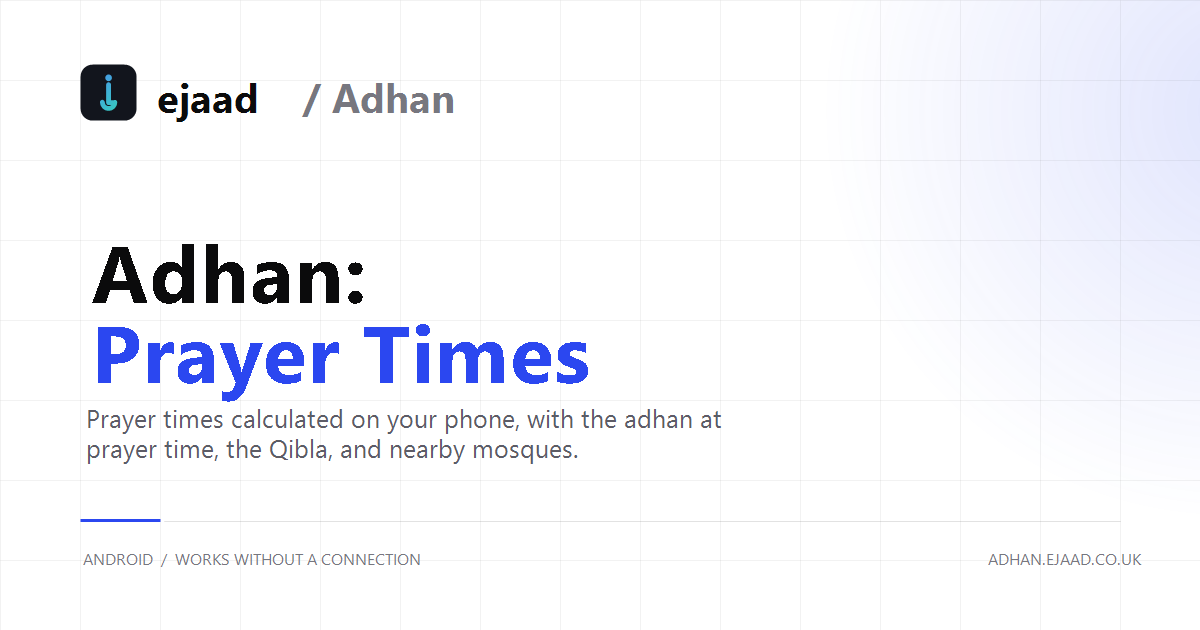
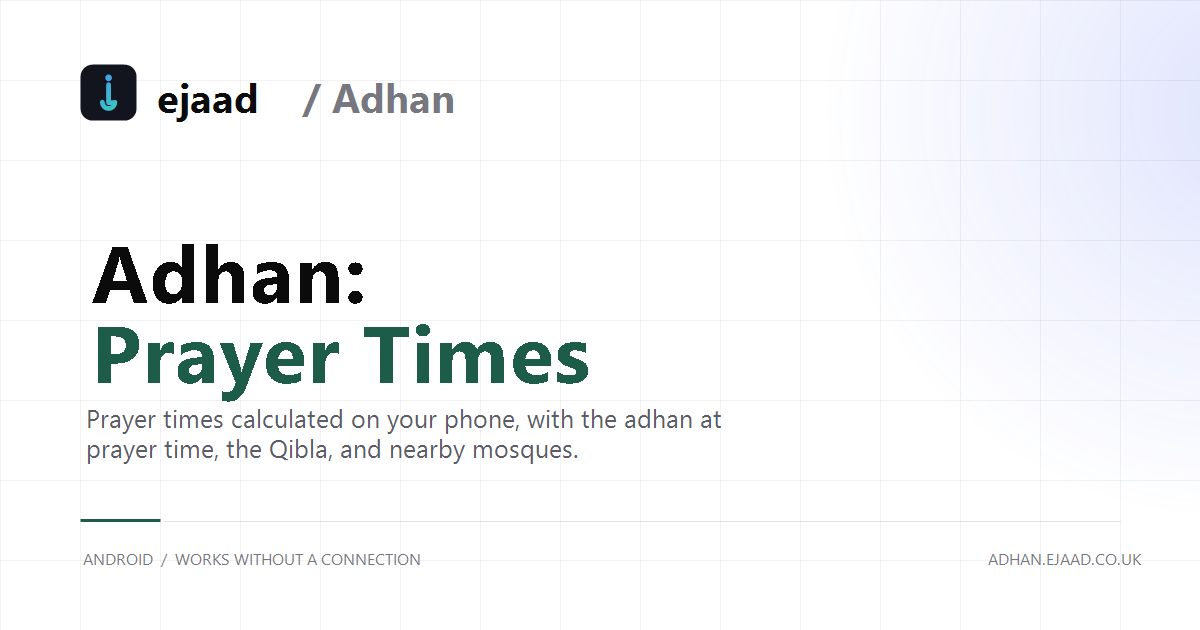
Adhan: green and white theme, pastel tiles, tighter spacing

Changed region(s): [[0.0617, 0.5127, 0.2775, 0.6333], [0.3083, 0.5127, 0.4933, 0.6333], [0.0617, 0.8143, 0.1233, 0.8444]]

diff --git a/adhan/assets/css/styles.css b/adhan/assets/css/styles.css
@@ -4,15 +4,18 @@
 
 :root {
   --bg: #ffffff;
-  --soft: #f4f4f6;
-  --lilac: #f1f5ff;
-  --ink: #0b0b0c;
-  --muted: #5c5c66;
-  --faint: #77777f;
-  --line: #e5e5ea;
-  --line-strong: #d3d3da;
-  --accent: #2b47f0;
-  --accent-soft: #eef2ff;
+  --soft: #f1f8f2;
+  --lilac: #e8f6ef;
+  --ink: #0e1a16;
+  --muted: #4f5f58;
+  --faint: #6f8078;
+  --line: #dfeae4;
+  --line-strong: #c9dbd3;
+  --accent: #1c5c48;
+  --accent-soft: #e8f6ef;
+  --forest: #0b2b23;
+  --emerald: #2f9e77;
+  --sand: #f7f1e4;
   --radius: 8px;
   --max: 1160px;
   --header-h: 72px;
@@ -61,7 +64,7 @@ p:last-child { margin-bottom: 0; }
 a { color: inherit; text-decoration: none; }
 ul { margin: 0; padding: 0; list-style: none; }
 
-::selection { background: rgba(43, 71, 240, 0.18); color: var(--ink); }
+::selection { background: rgba(28, 92, 72, 0.18); color: var(--ink); }
 
 :focus-visible {
   outline: 2px solid var(--accent);
@@ -152,18 +155,18 @@ ul { margin: 0; padding: 0; list-style: none; }
   transition: color 0.16s ease, background 0.16s ease;
 }
 .nav > a:hover { color: var(--ink); background: var(--soft); }
-.nav a.nav-cta { margin-left: 0.5rem; background: var(--ink); color: #fff; }
-.nav a.nav-cta:hover { background: var(--accent); color: #fff; }
+.nav a.nav-cta { margin-left: 0.5rem; background: var(--forest); color: #fff; }
+.nav a.nav-cta:hover { background: var(--emerald); color: #fff; }
 
 /* --------------------------------------------------------------------------
    Hero
    -------------------------------------------------------------------------- */
 
 .hero {
-  padding-block: clamp(2rem, 4vw, 3.5rem) 3rem;
+  padding-block: clamp(2rem, 4vw, 3.5rem) 1.5rem;
   background:
-    radial-gradient(60% 45% at 92% 0%, rgba(43, 71, 240, 0.07), transparent 70%),
-    radial-gradient(45% 45% at 0% 20%, rgba(46, 230, 168, 0.05), transparent 70%);
+    radial-gradient(60% 45% at 92% 0%, rgba(28, 92, 72, 0.08), transparent 70%),
+    radial-gradient(45% 45% at 0% 20%, rgba(47, 158, 119, 0.07), transparent 70%);
 }
 
 .hero-grid {
@@ -219,7 +222,7 @@ ul { margin: 0; padding: 0; list-style: none; }
   width: 86%;
   aspect-ratio: 1;
   border-radius: 50%;
-  background: radial-gradient(circle, rgba(79, 125, 255, 0.2), rgba(46, 230, 168, 0.1) 55%, transparent 72%);
+  background: radial-gradient(circle, rgba(47, 158, 119, 0.2), rgba(28, 92, 72, 0.08) 55%, transparent 72%);
   filter: blur(8px);
 }
 .phone {
@@ -239,7 +242,8 @@ ul { margin: 0; padding: 0; list-style: none; }
    Sections
    -------------------------------------------------------------------------- */
 
-.section { padding-block: clamp(3.8rem, 7vw, 6rem); }
+.section { padding-block: clamp(3rem, 5vw, 4.5rem); }
+#overview { padding-top: 2.5rem; }
 .section-lilac { background: var(--lilac); }
 
 .section-head { max-width: 720px; margin-bottom: clamp(2rem, 4vw, 2.8rem); }
@@ -248,13 +252,13 @@ ul { margin: 0; padding: 0; list-style: none; }
 
 .section-dark {
   background:
-    radial-gradient(70% 60% at 85% 0%, rgba(79, 125, 255, 0.22), transparent 60%),
-    radial-gradient(60% 60% at 5% 100%, rgba(46, 230, 168, 0.12), transparent 60%),
-    #0e1220;
+    radial-gradient(70% 60% at 85% 0%, rgba(47, 158, 119, 0.28), transparent 60%),
+    radial-gradient(60% 60% at 5% 100%, rgba(232, 246, 239, 0.08), transparent 60%),
+    var(--forest);
   color: #fff;
 }
 .section-dark .eyebrow { color: rgba(255, 255, 255, 0.6); }
-.section-dark .sq { background: #8ff0cc; }
+.section-dark .sq { background: #8fe3c4; }
 .section-dark h2 { color: #fff; }
 .section-dark .section-sub { color: rgba(255, 255, 255, 0.6); }
 
@@ -271,7 +275,7 @@ ul { margin: 0; padding: 0; list-style: none; }
   padding: clamp(0.9rem, 1.8vw, 1.4rem);
   border: 1px solid rgba(255, 255, 255, 0.1);
   border-radius: 20px;
-  background: linear-gradient(160deg, rgba(79, 125, 255, 0.18), rgba(46, 230, 168, 0.08));
+  background: linear-gradient(160deg, rgba(47, 158, 119, 0.2), rgba(232, 246, 239, 0.06));
 }
 .screen-stage .phone {
   width: 100%;
@@ -305,9 +309,12 @@ ul { margin: 0; padding: 0; list-style: none; }
   padding: clamp(1.3rem, 2.2vw, 1.7rem);
   border: 1px solid var(--line);
   border-radius: var(--radius);
-  background: #fff;
+  background: var(--accent-soft);
   transition: border-color 0.18s ease, transform 0.18s ease;
 }
+.feature:nth-child(4n + 2) { background: #f1f8f2; }
+.feature:nth-child(4n + 3) { background: #e6f4f4; }
+.feature:nth-child(4n + 4) { background: var(--sand); border-color: #ece2cc; }
 .feature:hover { border-color: var(--line-strong); transform: translateY(-2px); }
 .feature-num {
   display: block;
@@ -341,7 +348,7 @@ ul { margin: 0; padding: 0; list-style: none; }
 .privacy-note {
   margin-top: 1.5rem !important;
   padding-top: 1.2rem;
-  border-top: 1px solid rgba(43, 71, 240, 0.18);
+  border-top: 1px solid rgba(28, 92, 72, 0.18);
   font-size: 0.85rem !important;
   color: var(--faint) !important;
 }
@@ -351,7 +358,7 @@ ul { margin: 0; padding: 0; list-style: none; }
   padding: clamp(1.2rem, 2.2vw, 1.7rem);
   border: 1px solid var(--line);
   border-radius: var(--radius);
-  background: #f7f8fc;
+  background: #f4faf6;
 }
 .osm h3 { margin-bottom: 0.6rem; }
 .osm p { margin: 0; color: var(--muted); font-size: 0.92rem; line-height: 1.6; }
@@ -388,7 +395,7 @@ code { font-family: ui-monospace, SFMono-Regular, Menlo, Consolas, monospace; fo
    -------------------------------------------------------------------------- */
 
 .site-footer {
-  background: var(--ink);
+  background: var(--forest);
   color: #fff;
   padding-top: 2.8rem;
 }

diff --git a/adhan/index.html b/adhan/index.html
@@ -312,7 +312,7 @@
                 <stop offset="1" stop-color="#2ee6a8" />
               </linearGradient>
             </defs>
-            <rect width="40" height="40" rx="9" fill="#1f1f24" />
+            <rect width="40" height="40" rx="9" fill="#143a30" />
             <path d="M20 14.3V26.8h4.5a4.5 4.5 0 0 1-9 0" fill="none" stroke="url(#bg2)" stroke-width="3.4" stroke-linecap="round" stroke-linejoin="round" />
             <circle cx="20" cy="9.4" r="2.4" fill="url(#bg2)" />
           </svg>
